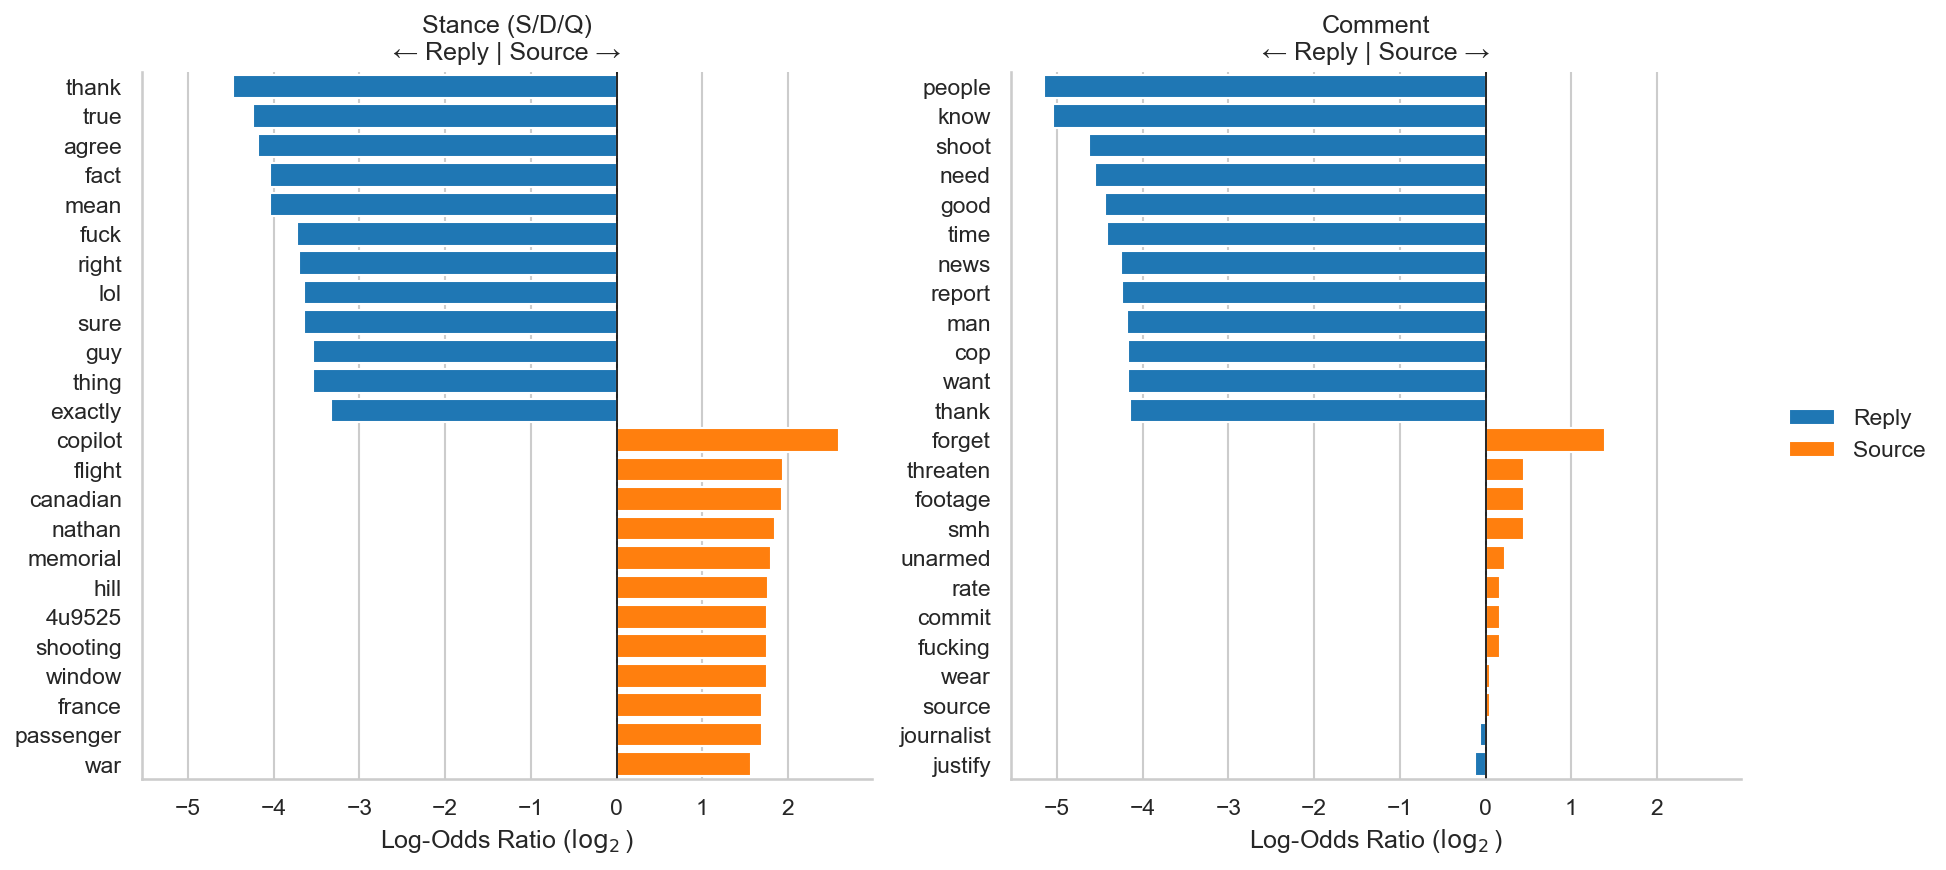
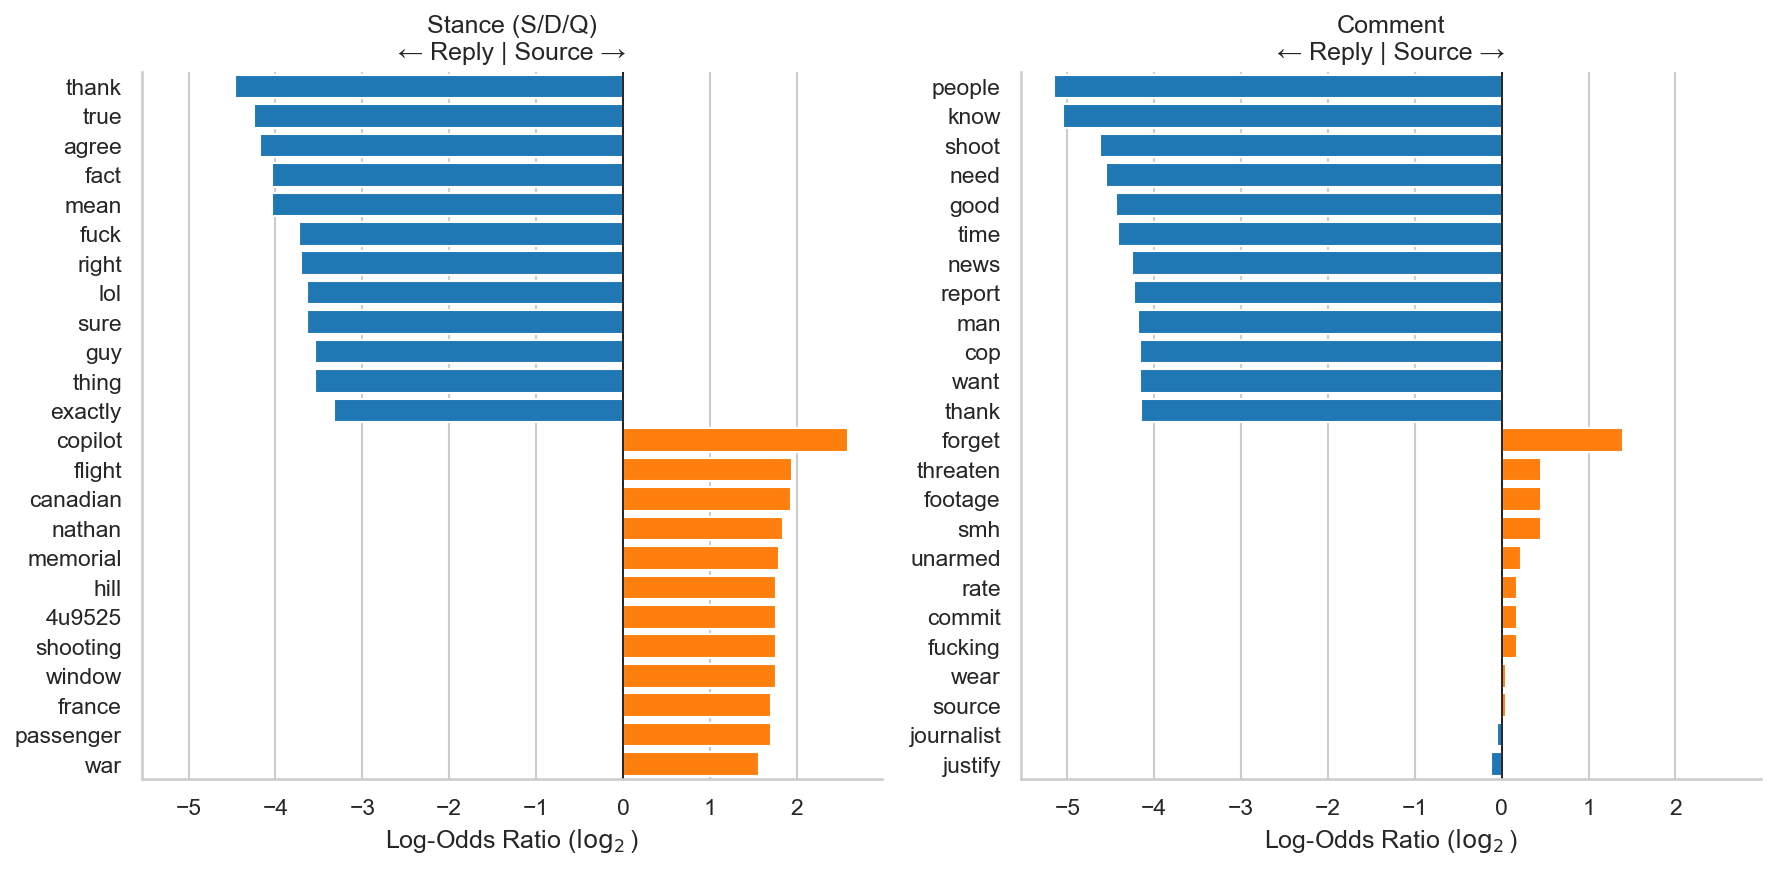
wordclouds

diff --git a/nb_1_analytics.py b/nb_1_analytics.py
@@ -146,9 +146,11 @@ for label in labels:
 
 # %%
 # (a) comparing token distributions
+top_n = 12 # top n to plot
+min_occurence = 10 # min count for words to include
 
 def compute_log_odds_ratio(counter_a, counter_b, prior=0.5):
-    """Compute log-odds ratio with Jeffreys prior smoothing."""
+    # from stackoverflow - uses jeffreys prior smoothing
     all_words = set(counter_a.keys()) | set(counter_b.keys())
     total_a, total_b = sum(counter_a.values()), sum(counter_b.values())
     n = len(all_words)
@@ -157,12 +159,11 @@ def compute_log_odds_ratio(counter_a, counter_b, prior=0.5):
                        ((counter_b.get(w, 0) + prior) / (total_b + prior * n)))
             for w in all_words}
 
-def get_top_log_odds_words(log_odds, counter_a, counter_b, n=12, min_count=10):
-    """Filter by frequency and return top n words for each direction."""
+def get_top_log_odds_words(log_odds, counter_a, counter_b, n=top_n, min_count=min_occurence):
     filtered = {w: v for w, v in log_odds.items() 
                 if counter_a.get(w, 0) + counter_b.get(w, 0) >= min_count}
     sorted_words = sorted(filtered.items(), key=lambda x: x[1], reverse=True)
-    return sorted_words[-n:][::-1] + sorted_words[:n]  # reply first, then source
+    return sorted_words[-n:][::-1] + sorted_words[:n] # reply on LHS, then source on rhs
 
 # 1 - group tokens by source/reply and stance/comment
 all_df = all_df.copy()
@@ -196,7 +197,6 @@ for ax in g.axes.flat:
     ax.set_xlabel(f'Log-Odds Ratio ({r"$\log_2$"})')
     ax.set_ylabel('')
     ax.set_title(f'{ax.get_title().replace("panel = ", "")}\n← Reply | Source →')
-g.add_legend(title='')
 g.tight_layout()
 
 if SAVE_DIR:
@@ -206,73 +206,26 @@ plt.show()
 
 # %%
 # (b) LDA analysis
-def get_topic_words(lda_model, n_words=20):
-    topics = []
-    for topic_id in range(lda_model.num_topics):
-        # get_topic_terms returns (word_id, probability) pairs
-        top_terms = lda_model.get_topic_terms(topic_id, topn=n_words)
-        top_words = [(lda_model.id2word[word_id], prob) for word_id, prob in top_terms]
-        topics.append(top_words)
-    return topics
 
-def print_topics(topics, title):
-    print(f"{title} - LDA topics:")
-    for i, topic in enumerate(topics):
-        words = [w for w, _ in topic]
-        print(f"[{i}]: {', '.join(words)}")
+# vars
+n_topics = 6 # seemed good from gensim cohesion model tried during testing
 
-def create_wordcloud(topics, title, save_path=None):
-    n_topics = len(topics)
-    n_cols = (n_topics + 1) // 2
-    n_rows = 2 if n_topics > 1 else 1
-    
-    _, axes = plt.subplots(n_rows, n_cols, figsize=(4*n_cols, 4*n_rows))
-    axes = axes.flatten() if n_topics > 1 else [axes]
-    
-    for i, topic in enumerate(topics):
-        ax = axes[i]
-        word_freq = {word: score for word, score in topic}
-        wc = WordCloud(width=400, height=400, background_color='white',
-                        max_words=50, min_font_size=12, prefer_horizontal=0.9)
-        wc.generate_from_frequencies(word_freq)
-        ax.imshow(wc, interpolation='bilinear')
-        ax.set_title(f'Topic {i+1}', fontsize=14)
-        ax.axis('off')
-    
-    # hide unused subplots if odd number of topics
-    for j in range(n_topics, len(axes)):
-        axes[j].axis('off')
-    
-    plt.suptitle(title, fontsize=16)
-    plt.tight_layout()
-    
-    if save_path: 
-        plt.savefig(save_path, dpi=150, bbox_inches='tight')
-        print(f"Saved: {save_path}")
-    plt.show()
-
-# 1 - vars
-n_topics = 8
-
-# 2 - run LDA for each stance (use reply_df defined earlier to only plot replies)
+# run lda for each stance (use reply_df defined earlier to only plot replies)
 stance_df = reply_df[reply_df['label_text'].isin(['support', 'deny', 'query'])]
 comment_df = reply_df[reply_df['label_text'] == 'comment']
-
-print(f"\nStance samples (S/D/Q): {len(stance_df)}")
-print(f"Comment samples: {len(comment_df)}")
 
 # tokenize
 stance_texts = stance_df['text'].apply(tokenize).tolist()
 comment_texts = comment_df['text'].apply(tokenize).tolist()
 
-# build corpus and dictionary
+# build corpora and dicts
 stance_id2word = corpora.Dictionary(stance_texts)
 stance_corpus = [stance_id2word.doc2bow(text) for text in stance_texts]
 
 comment_id2word = corpora.Dictionary(comment_texts)
 comment_corpus = [comment_id2word.doc2bow(text) for text in comment_texts]
 
-# train LDA models
+# train models
 stance_lda = LdaModel(
     corpus=stance_corpus, id2word=stance_id2word, num_topics=n_topics,
     passes=20, random_state=RAND_SEED, alpha='auto', eta='auto'
@@ -284,20 +237,46 @@ comment_lda = LdaModel(
 
 # %%
 # wordclouds
+def get_topic_words(lda_model, n_words=20):
+    topics = []
+    for topic_id in range(lda_model.num_topics):
+        # get_topic_terms returns (word_id, probability) pairs
+        top_terms = lda_model.get_topic_terms(topic_id, topn=n_words)
+        top_words = [(lda_model.id2word[word_id], prob) for word_id, prob in top_terms]
+        topics.append(top_words)
+    return topics
 
-# stance wordcloud
+def create_wordcloud(topics, title, save_path=None):
+    n_topics = len(topics)
+    
+    _, axes = plt.subplots(1, n_topics, figsize=(4*n_topics, 4))
+    if n_topics == 1:
+        axes = [axes]  # ensure axes is iterable for single topic
+    
+    for i, (ax, topic) in enumerate(zip(axes, topics)):
+        word_freq = {word: score for word, score in topic}
+        wc = WordCloud(width=400, height=400, background_color='white',
+                       max_words=50, min_font_size=12)
+        wc.generate_from_frequencies(word_freq)
+        ax.imshow(wc, interpolation='bilinear')
+        ax.set_title(f'Topic {i+1}', fontsize=20, fontweight='bold')
+        ax.axis('off')
+    
+    plt.suptitle(title, fontsize=24, fontweight='bold')
+    plt.tight_layout()
+    
+    if save_path: 
+        plt.savefig(save_path, dpi=150, bbox_inches='tight')
+        print(f"Saved: {save_path}")
+    plt.show()
+
 stance_topics = get_topic_words(stance_lda)
-print_topics(stance_topics, "Stance Replies (S/D/Q)")
-
 save_path = SAVE_DIR + "stance_wordcloud.png" if SAVE_DIR else None
-create_wordcloud(stance_topics, "Stance Replies (S/D/Q) Topics", save_path)
+create_wordcloud(stance_topics, "Stance Topics", save_path)
 
-# comment wordcloud
 comment_topics = get_topic_words(comment_lda)
-print_topics(comment_topics, "Comment Replies")
-
 save_path = SAVE_DIR + "comment_wordcloud.png" if SAVE_DIR else None
-create_wordcloud(comment_topics, "Comment Replies Topics", save_path)
+create_wordcloud(comment_topics, "Comment Topics", save_path)
 
 # %%
 # vis lda word lists with tmplot
